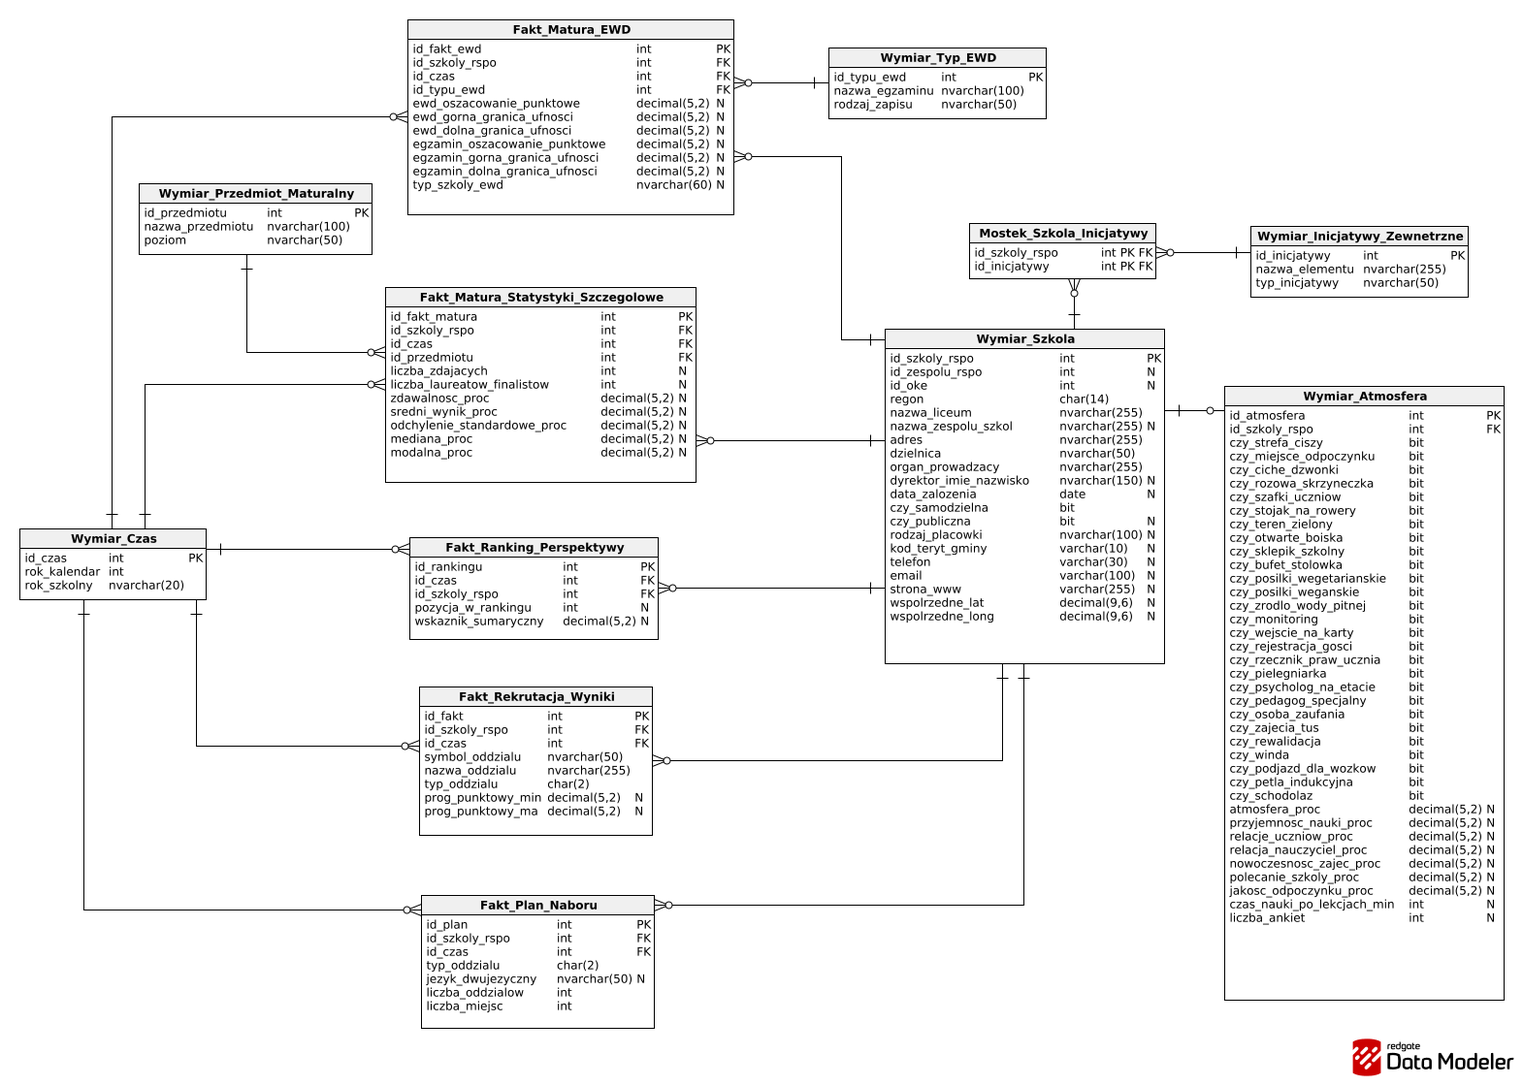
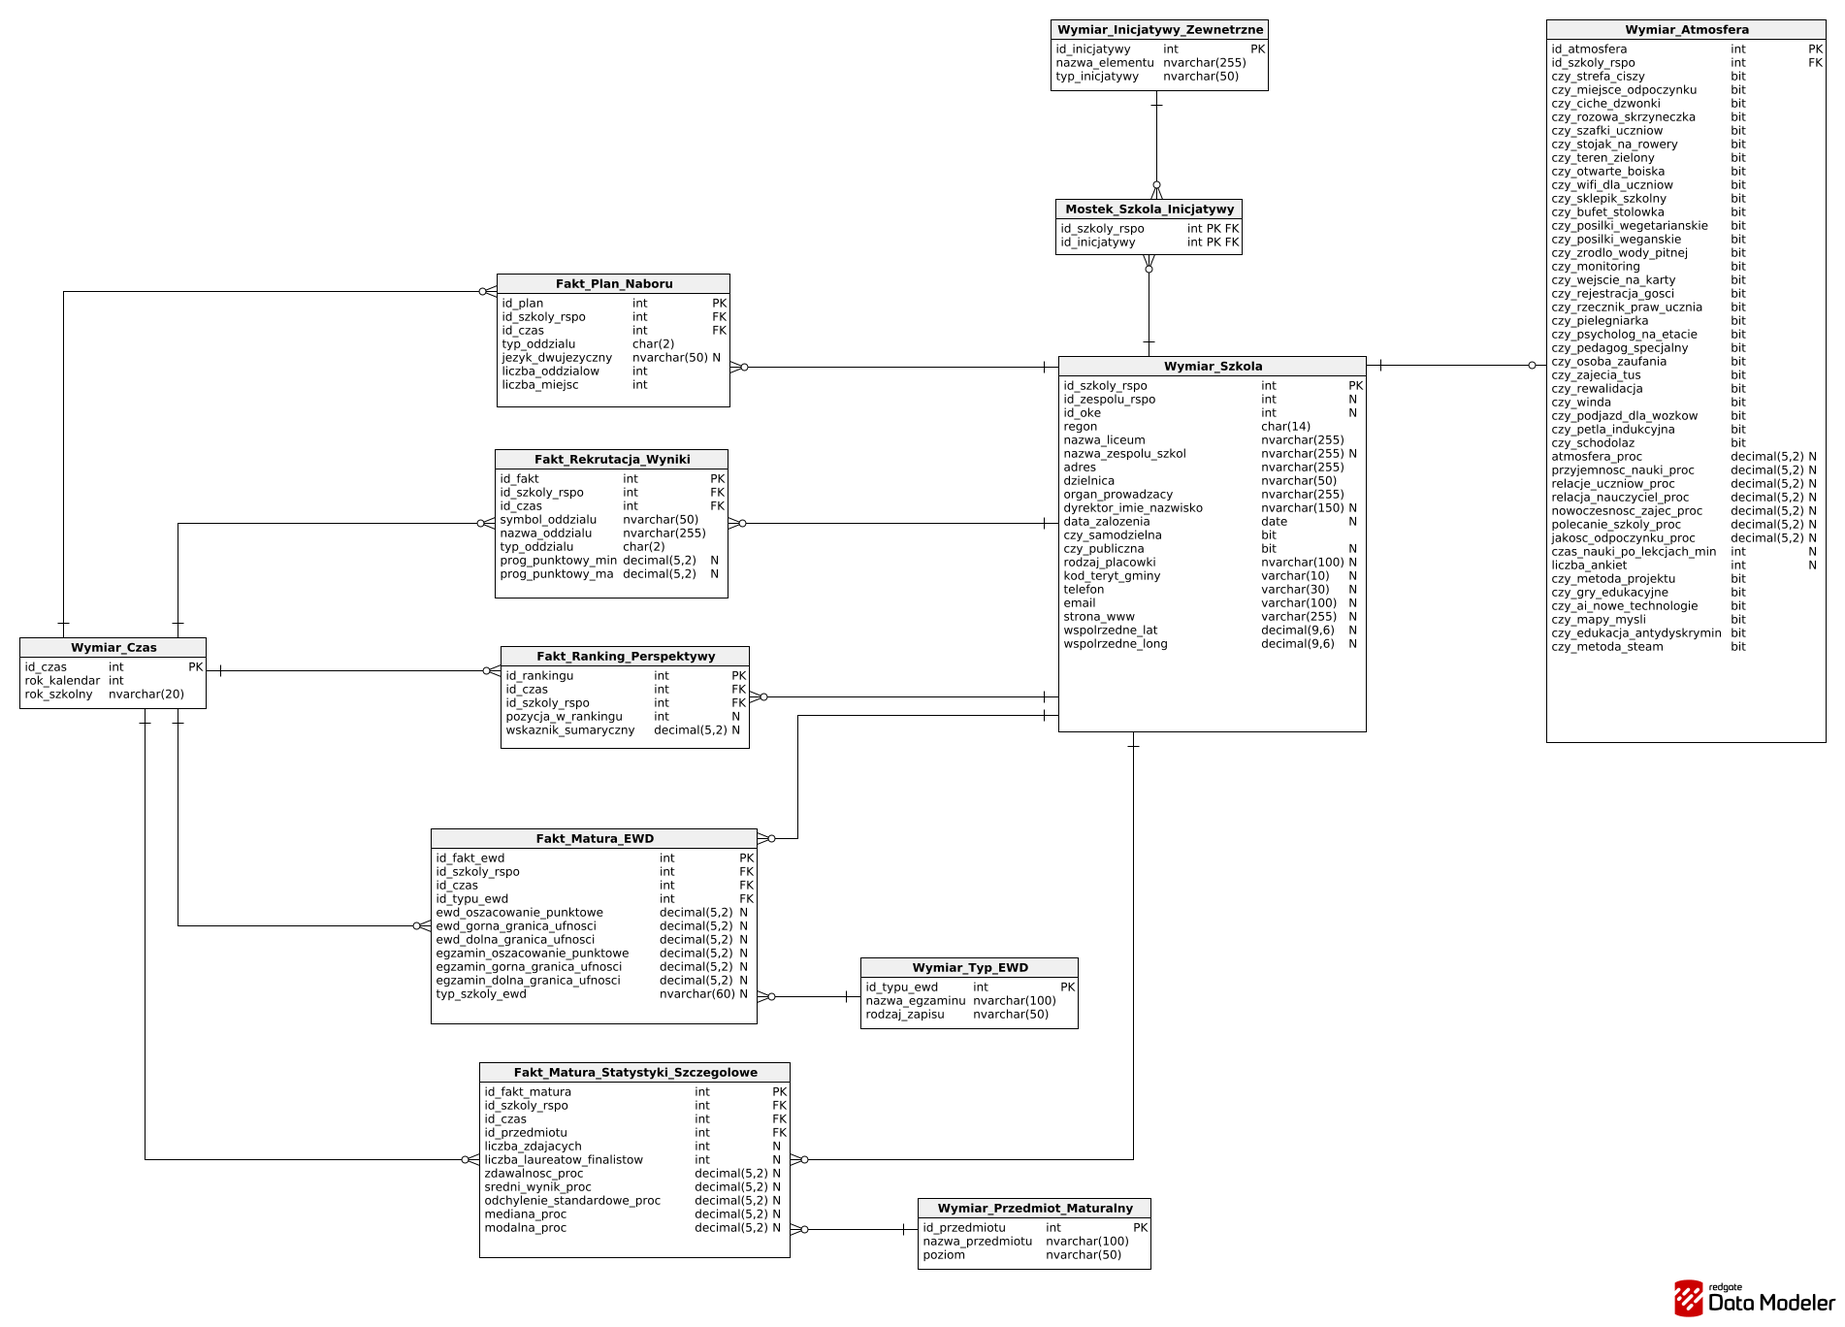
Dodaj dokumentację technologii i aktualizacje ETL
- docs/Technologie.md: nowy plik z opisem wszystkich technologii
  projektu (DWH, ETL Python, BI, aplikacja mobilna, narzędzia,
  źródła danych) z wersjami bibliotek i paletą kolorów DSS
- docs/etl_dokumentacja.md: dokumentacja procesu ETL
- docs/db/Diagram_encji.png: zaktualizowany diagram encji
- etl/config.py: dodaj ?charset=utf8 do connection string pymssql

diff --git a/etl/config.py b/etl/config.py
@@ -46,7 +46,7 @@ def create_engine_connection() -> Engine:
         from urllib.parse import quote_plus
         conn_str = (
             f"mssql+pymssql://SA:{quote_plus(sa_pass)}"
-            f"@localhost:1433/{DATABASE}"
+            f"@localhost:1433/{DATABASE}?charset=utf8"
         )
         engine = create_engine(conn_str, insertmanyvalues_page_size=35)
         with engine.connect():

diff --git a/docs/etl_dokumentacja.md b/docs/etl_dokumentacja.md
@@ -1,0 +1,189 @@
+# Dokumentacja procesu ETL — WawaLiceumDB
+
+## 1. Cel i zakres
+
+Proces ETL (Extract–Transform–Load) buduje hurtownię danych **WawaLiceumDB** — gwiaździsty schemat (star schema) zawierający dane o 196 warszawskich liceach ogólnokształcących dla rocznika rekrutacji 2023–2026.
+
+Hurtownia zasila:
+- **Projekt 1:** raporty analityczne Power BI (BI/DWH)
+- **Projekt 2:** mobilna aplikacja wspomagania decyzji (DSS) dla 8-klasisty wybierającego liceum
+
+---
+
+## 2. Architektura i przepływ danych
+
+```
+╔══════════════════════════════════════════════════════════════════════════════╗
+║                        ŹRÓDŁA DANYCH                                        ║
+╠══════════════╦══════════════╦══════════════╦══════════════╦══════════════════╣
+║  RSPO.xlsx   ║ Matury CSV   ║ Ranking      ║ Progi PDF    ║ Plan naboru xlsx ║
+║ (rejestr MEN)║ (CKE/OKE)   ║ Perspektyw   ║ 2023/24/25   ║ 2026             ║
+║              ║              ║ xlsx 2023-26 ║              ║                  ║
+╠══════════════╩══════════════╩══════════════╩══════════════╩══════════════════╣
+║  Informator PDF              ║  ewd.edu.pl API  ║  swiadomiewybieram.pl      ║
+║  (Klimatyczna Mapa Szkół)    ║  (REST, scraper) ║  (web scraper, login)      ║
+╚══════════════════════════════╩══════════════════╩════════════════════════════╝
+                    │                   │                   │
+                    ▼                   ▼                   ▼
+╔══════════════════════════════════════════════════════════════════════════════╗
+║                    FAZA 1: EXTRACT → TABELE STAGING                          ║
+║                                                                              ║
+║  stg_rspo        (230 wierszy)   ← RSPO.xlsx                                ║
+║  stg_matura      (3 850 wierszy) ← Matury 2025 CSV (podst. + rozsz.)        ║
+║  stg_ranking     (404 wiersze)   ← Ranking Perspektyw xlsx                  ║
+║  stg_plan_naboru (157 wierszy)   ← Plan naboru xlsx                         ║
+║  stg_progi       (2 495 wierszy) ← 3 × PDF (2023, 2024, 2025)              ║
+║  stg_informator_flags (98 wierszy)  ← Informator PDF (flagi infrastruktury) ║
+║  stg_informator_inicjatywy (567)    ← Informator PDF (programy szkół)       ║
+║  stg_ewd         (2 318 wierszy) ← api-ewd.men.gov.pl (scraper REST)        ║
+║  stg_atmosfera   (148 wierszy)   ← swiadomiewybieram.pl (web scraper)       ║
+║  stg_nominatim_coords (230 wierszy) ← Nominatim OSM API (geokodowanie)      ║
+╚══════════════════════════════════════════════════════════════════════════════╝
+                                   │
+                                   ▼
+╔══════════════════════════════════════════════════════════════════════════════╗
+║                    FAZA 2: DOPASOWANIE NAZW SZKÓŁ                            ║
+║                                                                              ║
+║  stg_school_xref (467 wierszy)                                              ║
+║                                                                              ║
+║  Problem: każde źródło używa innej formy nazwy szkoły (skróty, numeracja,  ║
+║  różne znaki). Moduł school_matcher.py łączy nazwy z różnych źródeł         ║
+║  (ranking, plan_naboru, progi, informator) z kanoniczną nazwą z RSPO        ║
+║  metodą dopasowania rozmytego (fuzzy matching) + słownik overrides.csv.     ║
+║                                                                              ║
+║  Wynik: tabela xref [source | source_name | id_szkoly_rspo]                 ║
+╚══════════════════════════════════════════════════════════════════════════════╝
+                                   │
+                                   ▼
+╔══════════════════════════════════════════════════════════════════════════════╗
+║                    FAZA 3: TRANSFORM → WYMIARY (SQL)                         ║
+║                    Skrypt: sql/10_transform_dims.sql                         ║
+║                                                                              ║
+║  stg_rspo           → Wymiar_Szkola        (196 szkół)                      ║
+║  stg_ewd            → Wymiar_Typ_EWD       (14 typów egzaminów EWD)         ║
+║  stg_matura         → Wymiar_Przedmiot_Maturalny (22 przedmioty)            ║
+║  lata z wszystkich  → Wymiar_Czas          (15 lat: 2012–2026)              ║
+║  stg_atmosfera      → Wymiar_Atmosfera     (149 szkół, 49 kolumn)           ║
+║  stg_nominatim      → Wymiar_Szkola        (aktualizacja: lat/lon)          ║
+║  stg_informator_    → Wymiar_Inicjatywy_Zewnetrzne (559 pozycji)            ║
+║                        + Mostek_Szkola_Inicjatywy  (466 par)                ║
+╚══════════════════════════════════════════════════════════════════════════════╝
+                                   │
+                                   ▼
+╔══════════════════════════════════════════════════════════════════════════════╗
+║                    FAZA 4: TRANSFORM → FAKTY (SQL)                           ║
+║                    Skrypt: sql/20_transform_facts.sql                        ║
+║                                                                              ║
+║  stg_ewd            → Fakt_Matura_EWD                (2 128 wierszy)        ║
+║  stg_matura         → Fakt_Matura_Statystyki_Szczeg. (3 740 wierszy)        ║
+║  stg_progi + xref   → Fakt_Rekrutacja_Wyniki         (1 784 wiersze)        ║
+║  stg_plan_naboru    → Fakt_Plan_Naboru               (144 wiersze)          ║
+║  stg_ranking + xref → Fakt_Ranking_Perspektywy       (400 wierszy)          ║
+╚══════════════════════════════════════════════════════════════════════════════╝
+                                   │
+                                   ▼
+╔══════════════════════════════════════════════════════════════════════════════╗
+║                    FAZA 5: OCZYSZCZANIE I WALIDACJA (SQL)                    ║
+║                                                                              ║
+║  sql/30_cleanup_schools.sql   — usunięcie szkół bez danych rekrutacyjnych   ║
+║  sql/40_inicjatywy_miedzynarodowe.sql — klasyfikacja programów IB/MM        ║
+║  sql/90_validation.sql        — zapytania kontrolne (ukryte diamenty,        ║
+║                                  zmarnowane szanse, liczebnościowe checks)  ║
+╚══════════════════════════════════════════════════════════════════════════════╝
+                                   │
+                                   ▼
+╔══════════════════════════════════════════════════════════════════════════════╗
+║                         WawaLiceumDB — HURTOWNIA DANYCH                      ║
+║                         Microsoft SQL Server 2022                            ║
+║                         Schemat gwiazdowy (Star Schema)                      ║
+╚══════════════════════════════════════════════════════════════════════════════╝
+```
+
+---
+
+## 3. Źródła danych — szczegóły
+
+| # | Źródło | Format | Moduł ETL | Zakres |
+|---|--------|--------|-----------|--------|
+| 1 | **RSPO** — Rejestr Szkół i Placówek Oświatowych (MEN) | XLSX | `extract/rspo.py` | Dane rejestrowe: adres, REGON, dyrektor, data założenia, 230 liceów warszawskich |
+| 2 | **CKE/OKE** — wyniki matur 2025 | CSV (cp1250, sep=;) | `extract/matury.py` | Zdawalność, średni wynik, liczba zdających per szkoła × przedmiot × poziom |
+| 3 | **Ranking Perspektyw** 2023–2026 | XLSX | `extract/ranking.py` | Pozycja i wskaźnik sumaryczny per szkoła per rok |
+| 4 | **Plan naboru** 2026 (m.st. Warszawa) | XLSX | `extract/plan_naboru.py` | Liczba klas, miejsc, język dwujęzyczny per szkoła per typ oddziału |
+| 5 | **Progi punktowe** 2023/2024/2025 | PDF (3 pliki) | `extract/progi_pdf.py` | Minimalne progi rekrutacyjne per klasa per rok |
+| 6 | **Klimatyczna Mapa Szkół** (Informator) | PDF | `extract/informator_pdf.py` | 27 flag infrastruktury (WiFi, psycholog, siłownia…), aktywne metody, inicjatywy |
+| 7 | **ewd.edu.pl** (API REST MEN) | JSON (scraper) | `scrape/ewd.py` | EWD per szkoła per typ egzaminu per rok (2012–2022 i 2025) |
+| 8 | **swiadomiewybieram.pl** | HTML (scraper) | `scrape/atmosfera.py` | 7 ocen procentowych atmosfery, 27 flag, czas nauki, liczba ankiet |
+| 9 | **Nominatim OSM** | REST API | `scrape/nominatim_coords.py` | Geokodowanie adresów → współrzędne GPS (lat/lon) dla 196 szkół |
+
+---
+
+## 4. Schemat hurtowni danych
+
+### Tabele wymiarów (Dimensions)
+
+| Tabela | Wiersze | Klucz główny | Opis |
+|--------|---------|--------------|------|
+| `Wymiar_Szkola` | 196 | `id_szkoly_rspo` | Dane rejestrowe szkoły (adres, dzielnica, GPS, organ prowadzący) |
+| `Wymiar_Czas` | 15 | `id_czas` | Lata 2012–2026, rok kalendarzowy i szkolny |
+| `Wymiar_Atmosfera` | 149 | `id_atmosfera` | 27 flag infrastruktury + 7 ocen procentowych uczniów |
+| `Wymiar_Przedmiot_Maturalny` | 22 | `id_przedmiotu` | Przedmiot × poziom (podstawowy/rozszerzony) |
+| `Wymiar_Typ_EWD` | 14 | `id_typu_ewd` | Typ egzaminu EWD (humanistyczny, mat-przyr, per-subject od 2024) |
+| `Wymiar_Inicjatywy_Zewnetrzne` | 559 | `id_inicjatywy` | Programy, inicjatywy, aktywności szkoły (9 kategorii) |
+
+### Tabele faktów (Facts)
+
+| Tabela | Wiersze | Ziarnistość | Opis |
+|--------|---------|-------------|------|
+| `Fakt_Matura_EWD` | 2 128 | szkoła × typ EWD × rok | Edukacyjna Wartość Dodana, przedziały ufności, klasyfikacja szkoły |
+| `Fakt_Matura_Statystyki_Szczegolowe` | 3 740 | szkoła × przedmiot × rok | Zdawalność, średni wynik, liczba zdających, laureaci |
+| `Fakt_Rekrutacja_Wyniki` | 1 784 | klasa × rok | Progi punktowe min. (2023–2025) per klasa |
+| `Fakt_Plan_Naboru` | 144 | szkoła × typ klasy | Oferta miejsc na rok szkolny 2026/2027 |
+| `Fakt_Ranking_Perspektywy` | 400 | szkoła × rok | Pozycja w rankingu, wskaźnik sumaryczny (2023–2026) |
+
+### Tabela mostkowa (Bridge)
+
+| Tabela | Wiersze | Opis |
+|--------|---------|------|
+| `Mostek_Szkola_Inicjatywy` | 466 | Relacja wiele-do-wielu: szkoła ↔ inicjatywa |
+
+---
+
+## 5. Technologia i narzędzia
+
+| Warstwa | Technologia |
+|---------|-------------|
+| Język ETL | Python 3.12 |
+| Biblioteki | pandas, SQLAlchemy 2.x, pymssql, pdfplumber, BeautifulSoup4, rapidfuzz |
+| Baza docelowa | Microsoft SQL Server 2022 (Docker na Mac / natywny na Windows) |
+| Transformacje SQL | T-SQL (wykonywane w SSMS lub sqlcmd) |
+| Geokodowanie | Nominatim OSM API (z cache JSON) |
+| Zarządzanie konfiguracją | `.env` (hasło SA, dane logowania do scraperów) |
+
+---
+
+## 6. Uruchomienie ETL — kolejność kroków
+
+```
+Krok 1   sql/00_create_warehouse.sql    Tworzenie schematu (DDL)
+Krok 2   python -m etl.load_staging     Extract → staging + matching
+Krok 3   sql/10_transform_dims.sql      Staging → wymiary
+Krok 4   sql/20_transform_facts.sql     Staging → fakty
+Krok 5   sql/30_cleanup_schools.sql     Oczyszczanie
+Krok 6   sql/40_inicjatywy_...sql       Klasyfikacja inicjatyw
+Krok 7   python -m etl.scrape.nominatim_coords   Geokodowanie GPS
+Krok 8   sql/90_validation.sql          Walidacja (opcjonalnie)
+```
+
+---
+
+## 7. Wyzwania i decyzje projektowe
+
+| Problem | Rozwiązanie |
+|---------|-------------|
+| Różne formy nazw szkół w każdym źródle | `school_matcher.py` — fuzzy matching (rapidfuzz) + ręczne override'y w `overrides.csv` |
+| SQL Server limit 2100 parametrów per INSERT | `insertmanyvalues_page_size=35` w SQLAlchemy 2.x |
+| Kodowanie polskich znaków w CSV | `encoding="cp1250"` przy odczycie; `charset=utf8` w połączeniu pymssql |
+| EWD: agregaty dostępne do 2022, per-subject od 2024 | Miary DAX z COALESCE: agregat jeśli dostępny, fallback na per-subject |
+| Geokodowanie: 230 szkół × API rate limit | Cache JSON (`_cache/nominatim_coords.json`) + opóźnienie 1,5 s między zapytaniami |
+| Progi PDF: brak struktury tabelarycznej | `pdfplumber` + regex ekstrakcja wzorców numerycznych |
+| Tylko 62/196 szkół ma dane EWD | Dane EWD publikowane tylko dla szkół z ≥30 zdającymi — ograniczenie źródła |

diff --git a/docs/Technologie.md b/docs/Technologie.md
@@ -1,0 +1,127 @@
+# Technologie stosowane w projekcie WawaLiceum
+
+Projekt składa się z dwóch warstw: hurtowni danych z raportowaniem BI (Projekt 1) oraz mobilnej aplikacji wspomagania decyzji (Projekt 2 — DSS).
+
+---
+
+## 1. Hurtownia danych (DWH)
+
+| Technologia | Zastosowanie |
+|-------------|-------------|
+| **MS SQL Server** | Relacyjna baza danych `WawaLiceumDB` (instancja `LaptopAgi\MSSQLSERVER1`) |
+| **Star Schema** | Architektura hurtowni: 5 tabel faktów, 7 tabel wymiarów, 1 tabela mostkowa |
+| **T-SQL** | DDL (tworzenie i modyfikacja schematu), transformacje staging → warehouse, zapytania walidacyjne |
+| **sqlcmd** | CLI do uruchamiania skryptów SQL na SQL Server |
+| **DataModeller** | Narzędzie do wizualnego projektowania schematu gwiazdy |
+
+### Schemat hurtowni (tabele)
+
+```
+Tabele faktów:   Fakt_Rekrutacja_Wyniki, Fakt_Plan_Naboru,
+                 Fakt_Matura_EWD, Fakt_Matura_Statystyki_Szczegolowe,
+                 Fakt_Ranking_Perspektywy
+Tabele wymiarów: Wymiar_Szkola, Wymiar_Atmosfera, Wymiar_Czas,
+                 Wymiar_Przedmiot_Maturalny, Wymiar_Typ_EWD,
+                 Wymiar_Inicjatywy_Zewnetrzne
+Mostek:          Mostek_Szkola_Inicjatywy
+```
+
+---
+
+## 2. ETL (pipeline danych)
+
+### Środowisko
+
+| Technologia | Wersja | Zastosowanie |
+|-------------|--------|-------------|
+| **Python** | 3.12+ | Język skryptów ETL |
+| **uv** | — | Menedżer pakietów Python (pyproject.toml + uv.lock) |
+
+### Biblioteki Python
+
+| Biblioteka | Wersja | Zastosowanie |
+|-----------|--------|-------------|
+| **pandas** | 3.0+ | Manipulacja danymi tabelarycznymi, transformacje |
+| **openpyxl** | 3.1+ | Parsowanie plików XLSX (RSPO, Ranking Perspektyw, Plan naboru) |
+| **SQLAlchemy** | 2.0+ | ORM i połączenie z SQL Server |
+| **pyodbc** | 5.0+ | ODBC bridge dla SQL Server (Windows) |
+| **requests** | 2.31+ | Zapytania HTTP do scrapowanych witryn |
+| **beautifulsoup4** | 4.12+ | Parsowanie HTML (waszaedukacja.pl, swiadomiewybieram.pl) |
+| **lxml** | 5.0+ | Parser XML/HTML używany przez BeautifulSoup |
+| **pdfplumber** | 0.11+ | Parsowanie plików PDF (progi punktowe 2023/2024/2025, Informator Licea 2026) |
+| **rapidfuzz** | 3.6+ | Fuzzy matching nazw szkół do identyfikatorów RSPO |
+
+### Przepływ ETL
+
+```
+Źródła danych
+    │
+    ▼
+Staging (stg_*) — tabele tymczasowe w SQL Server, ładowane przez Python
+    │
+    ▼
+Warehouse (Wymiar_* + Fakt_*) — transformacje T-SQL
+```
+
+Szczegółowy opis przepływu: [`docs/ETL.md`](ETL.md)
+
+---
+
+## 3. Raportowanie BI
+
+| Technologia | Zastosowanie |
+|-------------|-------------|
+| **Power BI** | Raporty analityczne na danych hurtowni (Projekt 1) |
+| **DAX** | Język miar i kalkulacji w Power BI |
+
+---
+
+## 4. Aplikacja mobilna DSS (Projekt 2)
+
+| Technologia | Zastosowanie |
+|-------------|-------------|
+| **JetBrains Rider** | IDE do tworzenia aplikacji |
+| **Material Design 3** | System komponentów UI — przyciski, karty, nawigacja, formularze |
+| **Tailwind CSS** | Utility-first CSS — layout, spacing, kolory, typografia |
+| **HTML** | Markup widoków aplikacji |
+| **Plus Jakarta Sans** | Krój pisma (Google Fonts) — zastępuje domyślne Roboto |
+| **Leaflet + OpenStreetMap** | Interaktywna mapa szkół (widok Mapa w ekranie Szukaj) |
+
+### Paleta kolorów (design system)
+
+| Token | Kolor | Hex |
+|-------|-------|-----|
+| Primary | Emerald | `#059669` |
+| Tło aplikacji | Mint cream | `#F0FDF9` |
+| Akcent / Ranking | Amber | `#F59E0B` |
+| Wysokie szanse | Zielony | `#22C55E` |
+| Realistyczna | Pomarańczowy | `#FB923C` |
+| Szkoła marzeń | Czerwony | `#EF4444` |
+
+Pełna specyfikacja: [`docs/ux/design-system.md`](ux/design-system.md)
+
+---
+
+## 5. Kontrola wersji i narzędzia projektowe
+
+| Narzędzie | Zastosowanie |
+|-----------|-------------|
+| **Git** | Kontrola wersji kodu |
+| **GitHub** | Repozytorium zdalne (`pd5132/WawaLiceum`), branch `dev` |
+| **Figma** | Prototypy UX — 6 ekranów aplikacji mobilnej |
+
+---
+
+## 6. Zewnętrzne źródła danych
+
+| Źródło | Format | Dane |
+|--------|--------|------|
+| **RSPO** (rejestr szkół) | XLSX | Nazwy, adresy, identyfikatory RSPO liceów warszawskich |
+| **CKE / OKE** (mapa.wyniki.edu.pl) | CSV, XLSX | Wyniki egzaminów maturalnych (podstawowy + rozszerzony) |
+| **ewd.edu.pl / waszaedukacja.pl** | Web scraping (HTML) | Wskaźniki EWD (Edukacyjna Wartość Dodana) per szkoła |
+| **Ranking Perspektyw 2026** | XLSX | Pozycja rankingowa i wskaźnik sumaryczny (multi-year) |
+| **Plan naboru 2026** | XLSX | Liczba oddziałów i miejsc per typ oddziału |
+| **Progi punktowe 2023–2025** | PDF (3 różne formaty) | Minimalne i maksymalne progi rekrutacyjne per oddział |
+| **Informator Licea 2026** | PDF | 27 flag infrastrukturalnych + inicjatywy zewnętrzne (98 szkół) |
+| **swiadomiewybieram.pl** | Web scraping (HTML) | Oceny atmosfery szkolnej (%), wskaźniki miękkie |
+| **pl.wikipedia.org** | Web scraping (geotagi) | Współrzędne geograficzne szkół (lat/long) |
